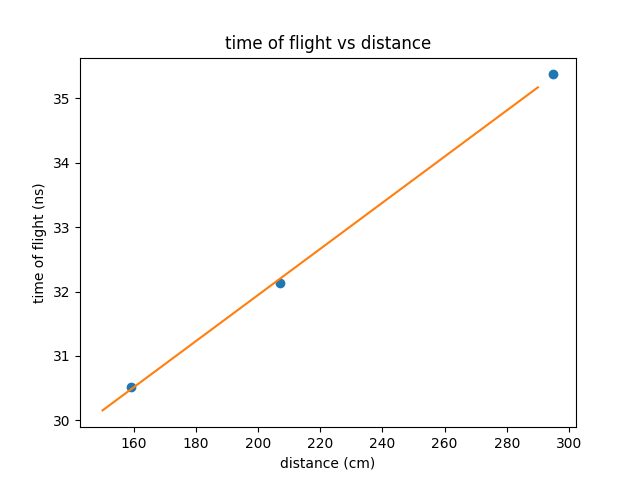
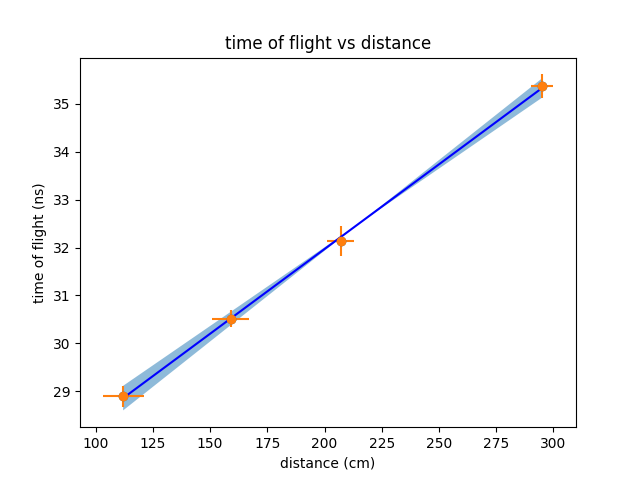
Updates to analysis file

diff --git a/Exp1-CosmicRayMuons/cccccccc.py b/Exp1-CosmicRayMuons/cccccccc.py
@@ -5,9 +5,11 @@ c stands for the speed of light
 import numpy as np
 import matplotlib.pyplot as plt
 from velocity_analysis import get_tof
+import lin_regress as lr
 
-distances = [150, 200, 290]
-corrected_distances = [159, 207, 295]
+distances = [100, 150, 200, 290]
+corrected_distances = [112, 159, 207, 295]
+distance_std = [9, 8, 6, 5]
 # corrected_distances = [150, 200, 290]
 file_names = [str(d) + 'cm_final' for d in distances]
 
@@ -23,13 +25,25 @@ plt.ylabel('time of flight (ns)')
 plt.title('time of flight vs distance')
 
 # fit a line to the data
-m, b = np.polyfit(corrected_distances, tofs, 1)
-plt.plot(distances, m*np.array(distances) + b)
+
+m, b, merr, berr = lr.lin_regression_with_error(corrected_distances, tofs,distance_std,  tof_errors, 1000)
+max_line = [(m-merr)*d+(b+berr) for d in corrected_distances]
+best_line = [(m)*d+(b) for d in corrected_distances]
+min_line = [(m+merr)*d+(b-berr) for d in corrected_distances]
+
+
+plt.errorbar(corrected_distances, tofs, xerr=distance_std, yerr=tof_errors,ls='none',marker="o")
+plt.fill_between(corrected_distances, min_line, max_line,alpha=0.5)
+plt.plot(corrected_distances, best_line,"b")
+
+
+#plt.plot(distances, m*np.array(distances) + b)
 
 plt.savefig('./images/tof_vs_distance.png')
 
 # calculate the speed of light
 # m is in units of ns/cm
 c = (1/m) * 1e9 # in units of cm/s
+cerr = (merr/m**2)*1e9
 cc = 2.998e10 # in units of cm/s
-print(f"fraction of speed of light: {c/cc}")
+print(f"fraction of speed of light: {c/cc} +- {cerr/cc}")

diff --git a/Exp1-CosmicRayMuons/lin_regress.py b/Exp1-CosmicRayMuons/lin_regress.py
@@ -12,8 +12,8 @@ import random
 def lin_regression_with_error(x, y, xerr, yerr, trials):
     y_values = np.array(y)
     x_values = np.array(x)
-    y_err = np.array(xerr)
-    x_err = np.array(yerr)
+    y_err = np.array(yerr)
+    x_err = np.array(xerr)
 
     trials = trials # How many monti carlo runs to make
 
@@ -34,7 +34,7 @@ def lin_regression_with_error(x, y, xerr, yerr, trials):
         b_trials.append(bt)
     m_trials = np.array(m_trials)
     b_trials = np.array(b_trials)
-    print(len(b_trials))
+   # print(len(b_trials))
     # Use data to give standard deviation
     m_std = np.std(m_trials)
     b_std = np.std(b_trials)
